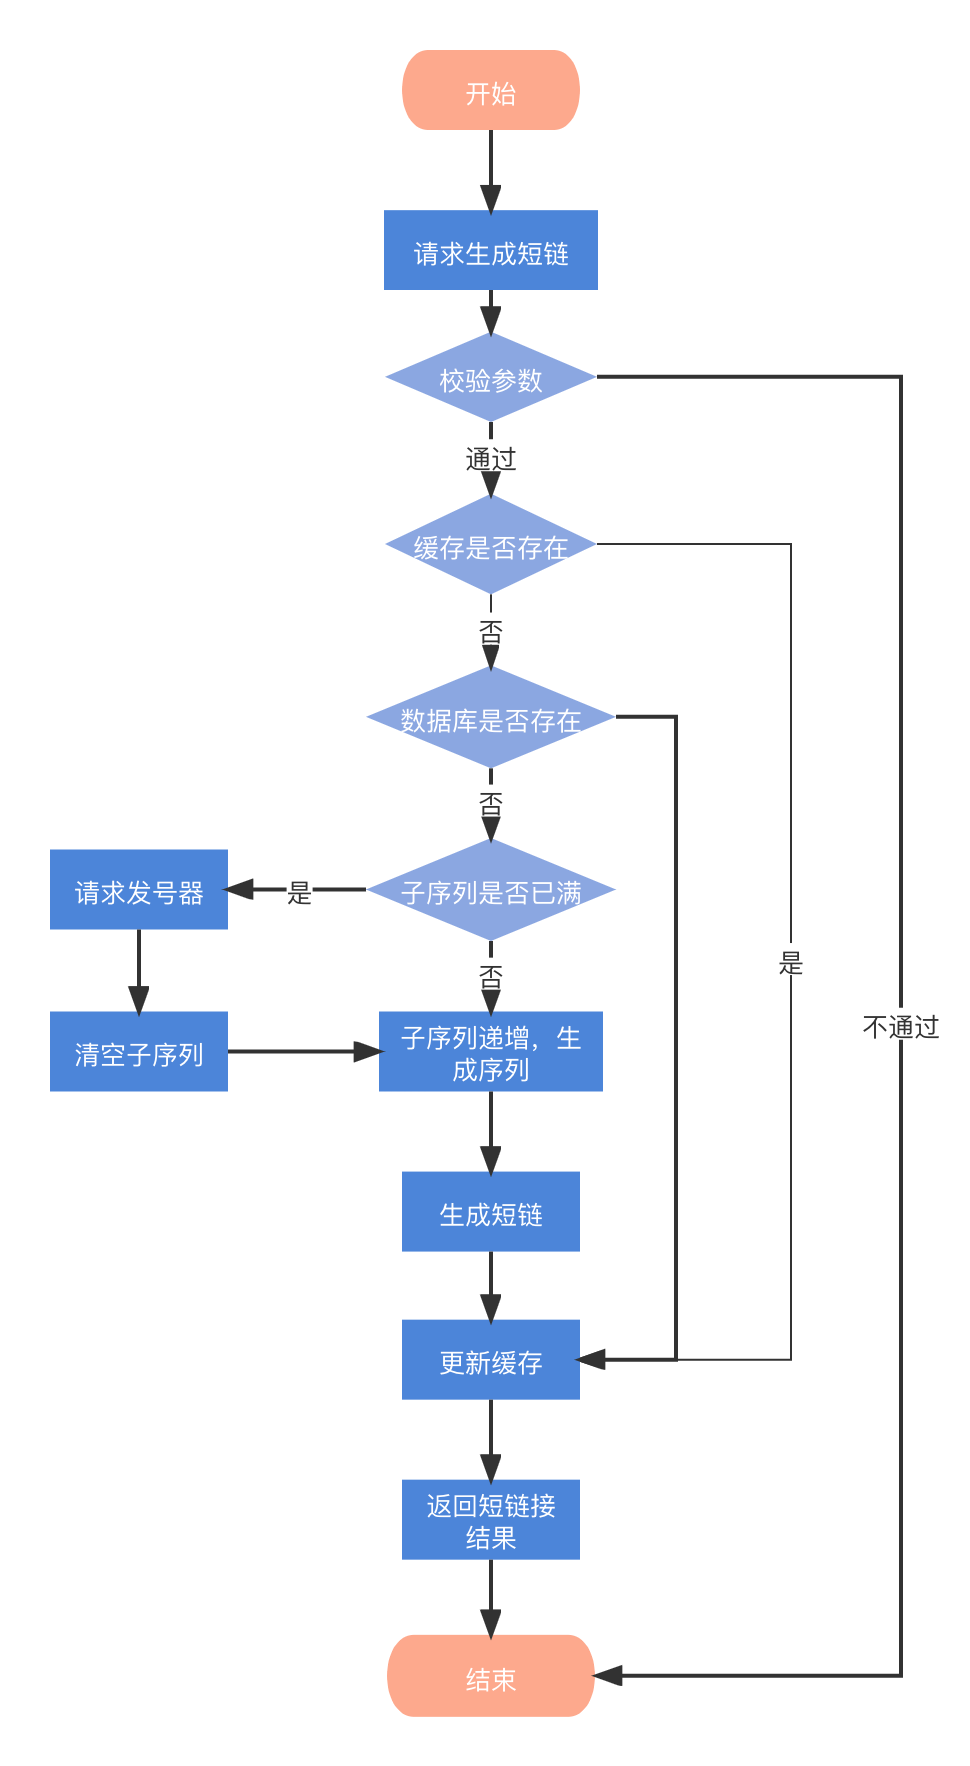
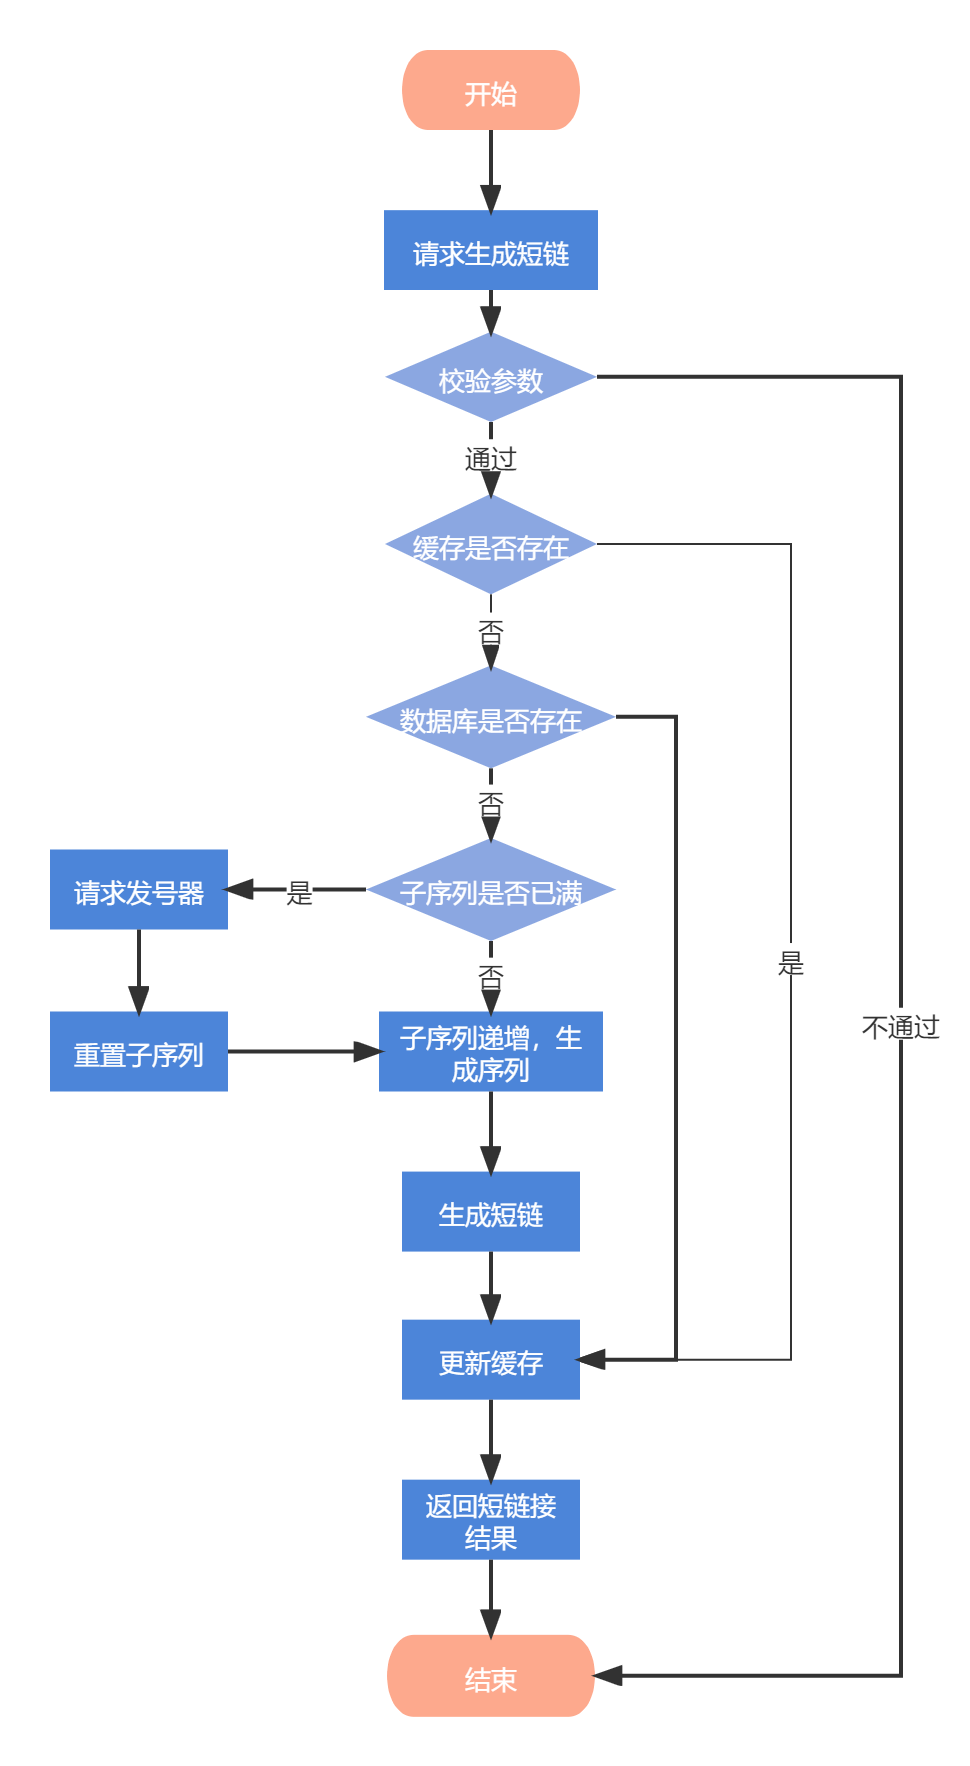
c

diff --git a/src/services/shortUrl.ts b/src/services/shortUrl.ts
@@ -5,47 +5,46 @@ import { Mutex } from 'async-mutex'
 import env from '../config/env'
 const mutex = new Mutex()
 let signalValue = -1
-let subSeq = -1
+let currStep = -1
 
-async function generateNextSeq(maxSubSeq: number): Promise<number> {
-  //此处采用互斥锁来处理并发场景
-  if (signalValue == -1 || subSeq >= maxSubSeq - 1) {
+async function generateNextSeq(stepSize: number): Promise<number> {
+  if (signalValue == -1 || currStep >= stepSize - 1) {
     const release = await mutex.acquire()
     try {
-      if (signalValue == -1 || subSeq >= maxSubSeq - 1) {
+      if (signalValue == -1 || currStep >= stepSize - 1) {
         const signal = await collections.Signal.findOneAndUpdate(
           { name: 'shortUrl' },
-          { $inc: { value: 1 } },
+          { $inc: { value: stepSize } },
           { upsert: true, returnDocument: 'after' },
         )
         // eslint-disable-next-line @typescript-eslint/no-non-null-assertion
-        signalValue = signal.value!.value
-        subSeq = -1
+        signalValue = signal.value!.value - stepSize
+        currStep = -1
       }
     } finally {
       release()
     }
   }
-  subSeq += 1
-  return signalValue * maxSubSeq + subSeq
+  currStep += 1
+  return signalValue * stepSize + currStep
 }
 
 /**
- * 生成短链接网址
- * @param originUrl 原始网址
+ * 生成短链接
+ * @param originUrl 源网址
  * @returns 返回短链接网址
  */
 async function generate(originUrl: string) {
+  //todo: 此处可以通过bloom filter判断源路径是否存在，如果不存在再进行查库
   const urlMapping = await collections.UrlMapping.findOne({ originUrl })
   if (urlMapping != null) {
     return urlMapping.shortUrl
   }
-  const { maxSubSeq, shortUrlSite, maxPathLength } = env
-  const seq = await generateNextSeq(maxSubSeq)
-  // console.log(`signalValue:${signalValue},subSeq: ${subSeq},seq: ${seq}`)
+  const { stepSize, shortUrlSite, maxPathLength } = env
+  const seq = await generateNextSeq(stepSize)
   const shortUrlPath = base62.encode(seq)
   if (shortUrlPath.length > maxPathLength) {
-    throw new Error(`path length  exceed ${maxPathLength}`)
+    throw new Error(`path length exceed ${maxPathLength}`)
   }
   const shortUrl = `${shortUrlSite}/${shortUrlPath}`
   await collections.UrlMapping.insertOne({ originUrl, shortUrl })
@@ -53,11 +52,12 @@ async function generate(originUrl: string) {
 }
 
 /**
- * 获取原始网址
- * @param shortUrl 短链接网址
- * @returns 原始网址
+ * 获取源链接
+ * @param shortUrl 短链接
+ * @returns 源链接
  */
 async function getOriginUrl(shortUrl: string) {
+  //todo: 此处可以通过bloom filter判断短链接是否存在，如果不存在直接返回null
   const urlMapping = await collections.UrlMapping.findOne({ shortUrl })
   if (urlMapping === null) {
     return null

diff --git a/test/api/shortUrl.test.ts b/test/api/shortUrl.test.ts
@@ -1,8 +1,7 @@
 import supertest from 'supertest'
 import app, { initialize } from '../../src/app'
 import redisClient from '../../src/components/redis'
-import mongoClient from '../../src/components/database'
-import env from '../../src/config/env'
+import mongoClient, { collections } from '../../src/components/database'
 const generateApi = (originUrl?: string) =>
   supertest(app)
     .post('/api/shortUrl/generate')
@@ -59,10 +58,11 @@ describe('shorturl generate', () => {
     await generatedDataPromise(1)
   })
   test('exceed max length should return statusCode 500', async () => {
-    const { maxSubSeq } = env
-    env.maxSubSeq = 2000000
+    collections.Signal.findOneAndUpdate(
+      { name: 'shortUrl' },
+      { $inc: { value: 300000 } },
+    )
     const res = await generateApi(`http://originUrl/maxlength`)
-    env.maxSubSeq = maxSubSeq
     expect(res.statusCode).toEqual(500)
   })
 })

diff --git a/src/config/env.ts b/src/config/env.ts
@@ -7,7 +7,7 @@ export interface Env {
   redisUrl: string
   port: number
   cacheExpireTime: number
-  maxSubSeq: number
+  stepSize: number
   shortUrlSite: string
   maxPathLength: number
 }
@@ -21,9 +21,9 @@ const env: Env = {
   mongodbName: process.env.MONGODB_NAME,
   redisUrl: process.env.REDIS_URL,
   port: Number(process.env.PORT),
-  cacheExpireTime: Number(process.env.CACHE_EXPIRE_TIME),
-  maxSubSeq: Number(process.env.MAX_SUB_SEQ),
+  cacheExpireTime: Number(process.env.CACHE_EXPIRE_TIME) || 3600,
+  stepSize: Number(process.env.STEP_SIZE) || 1000,
   shortUrlSite: process.env.SHORT_URL_SITE,
-  maxPathLength: Number(process.env.MAX_PATH_LENGTH),
+  maxPathLength: Number(process.env.MAX_PATH_LENGTH) || 8,
 }
 export default env

diff --git a/src/types/global.d.ts b/src/types/global.d.ts
@@ -9,7 +9,7 @@ declare global {
       REDIS_URL: string
       PORT?: string
       CACHE_EXPIRE_TIME: string
-      MAX_SUB_SEQ: string
+      STEP_SIZE: string
       SHORT_URL_SITE: string
       MAX_PATH_LENGTH: string
     }

diff --git a/docs/README.md b/docs/README.md
@@ -1,21 +1,78 @@
-## 短域名服务实现设计
+## 短域名服务
+
+### 问题分析
+
+短链是通过某种算法，将比较长的源链接映射成较短的链接。f(源地址)->固定域名 + url 友好的字符串，生成的短链接算法一般有两种 **哈希算法**，**自增 id**
+
+1. 哈希算法
+
+   将源地址通过哈希算法生成唯一散列，如 [MurmurHash](https://github.com/perezd/node-murmurhash)，[nanoid](https://zelark.github.io/nano-id-cc/)。
+   好处: 分布均匀，更安全
+   缺点: 短链接地址一般较短，哈希算法存在着冲突概率，需要借助查库和[布隆过滤器](https://brilliant.org/wiki/bloom-filter/)等手段来检查，并重新生成 hash。
+
+2. 自增 id
+   通过定义 ID 生成器（下文均使用发号器来描述），将数字 id 映射到 url 友好的字符串。
+   好处: 设计简单
+   缺点: 序号连续，更可预测。需要请求发号器下发 id。
 
 ### 设计思路
 
-短码生成方式有自增 id，摘要算法。此工程使用自增 id 的生成方式。
+本项目采用了自增 id 的算法
+使用技术栈为 typescript+express,采用了 mongodb,redis 等中间件。以下对项目关键点进行说明
 
-1. 定义发号器
-   采用 mongodb 做发号器，保证每个请求的序号连续唯一。
+1. **发号器**
 
-   为了降低发号器的压力，采用发号器加本地子序列一起来生成序号，序号 = 发号器序号\*子序列长度 + 当前子序列号。如从发号器获取到值后，本地先递增本地子序列，当超过子序列长度后，再次获取新的发号器序号。nodejs 虽然是单进程，也要控制并发请求发号器。
+   发号器需要持久化，选用了 mongodb。$inc 是原子操作，可以确保并发安全
 
-2. 加入缓存
+2. **子序列**
 
-   适当的使用缓存可以提升系统的吞吐量，在系统中，分别使用了一个读缓存和一个写缓存
-   。
+   为了降低发号器的压力，采用发号器加本地子序列一起来生成序号，序号 = 发号器序号\*子序列长度 + 当前子序列号。
+   从发号器获取到值后，本地先递增本地子序列，当超过子序列长度后，再次获取新的发号器序号。
+
+3. **排它锁**
+
+   nodejs 虽然是单进程，但并发场景仍然会多次请求发号器。需要引入排它锁
+
+4. **缓存**
+
+   适当的使用缓存可以提升系统的吞吐量，在系统中，分别使用了一个读缓存和一个写缓存。
+
    请求获取短链接的接口，对于热点数据将大大提升性能
 
    生成短链接的接口，短期内请求两条一样的链接地址，不需要查库就可以直接返回
+
+### 设计实现
+
+##### 表设计
+
+- **Signal** 发号器
+
+  | 字段  | 类型     | 说明       | 索引         |
+  | ----- | -------- | ---------- | ------------ |
+  | \_id  | objectid | 主键 id    | Primary key  |
+  | name  | string   | 发号器名称 | Unique Index |
+  | value | number   | 发号器值   |              |
+
+- **UrlMapping** 长短链接映射
+
+  | 字段      | 类型     | 说明    | 索引         |
+  | --------- | -------- | ------- | ------------ |
+  | \_id      | objectid | 主键 id | Primary key  |
+  | originUrl | string   | 源链接  | Index        |
+  | shortUrl  | string   | 短链接  | Unique Index |
+
+  ##### 环境变量
+
+  | 名称              | 类型   | 说明                 | 默认值 | 是否必填 |
+  | ----------------- | ------ | -------------------- | ------ | -------- |
+  | MONGODB_URL       | string | mongdb 链接字符串    |        | 是       |
+  | MONGODB_NAME      | string | mongdb 数据库名      |        | 是       |
+  | REDIS_URL         | string | redis 链接字符串     |        | 是       |
+  | SHORT_URL_SITE    | string | 短链接域名           |        | 是       |
+  | PORT              | number | 站点监听端口         | 3000   |          |
+  | CACHE_EXPIRE_TIME | number | 缓存失效时间（秒）   | 3600   |          |
+  | MAX_PATH_LENGTH   | string | 最大短链接 path 长度 | 8      |          |
+  | STEP_SIZE         | number | 子序列长度           | 1000   |          |
 
 #### 生成短域名流程图
 
@@ -33,3 +90,5 @@
 [详细信息](../coverage/lcov-report/index.html)
 
 ![generate-shorturl.png](./images/coverage.png)
+
+### 待完成
